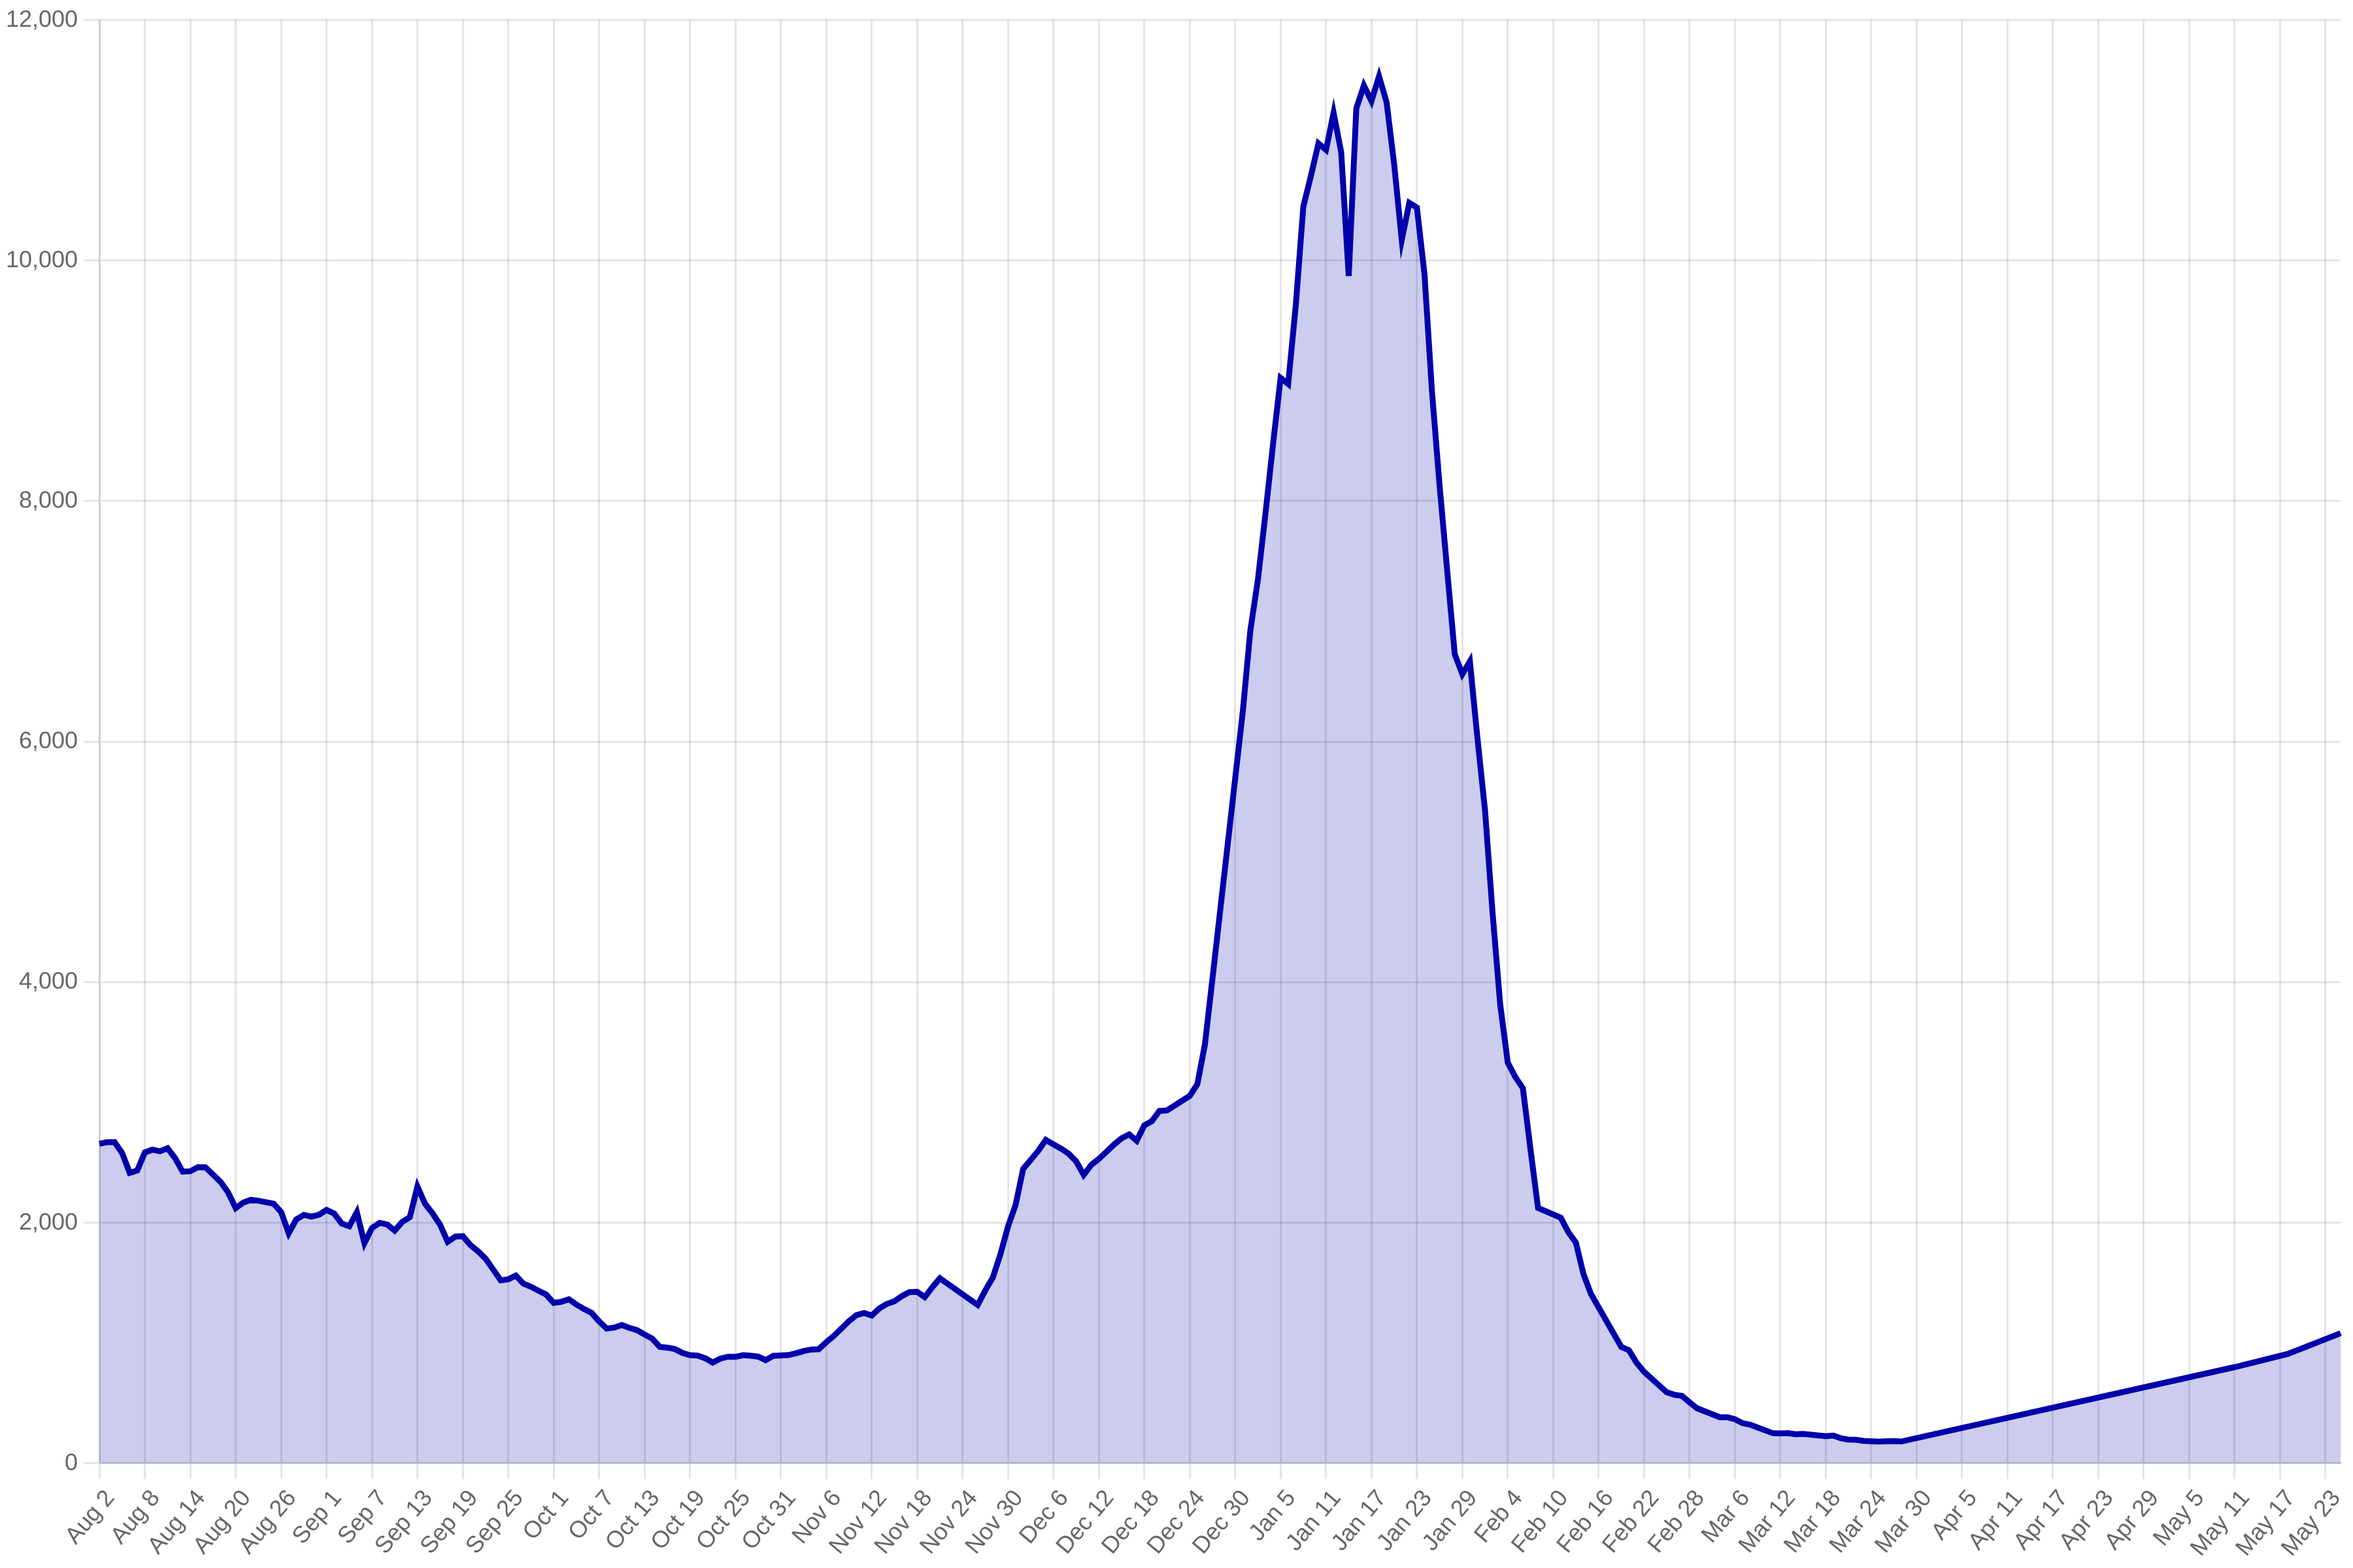
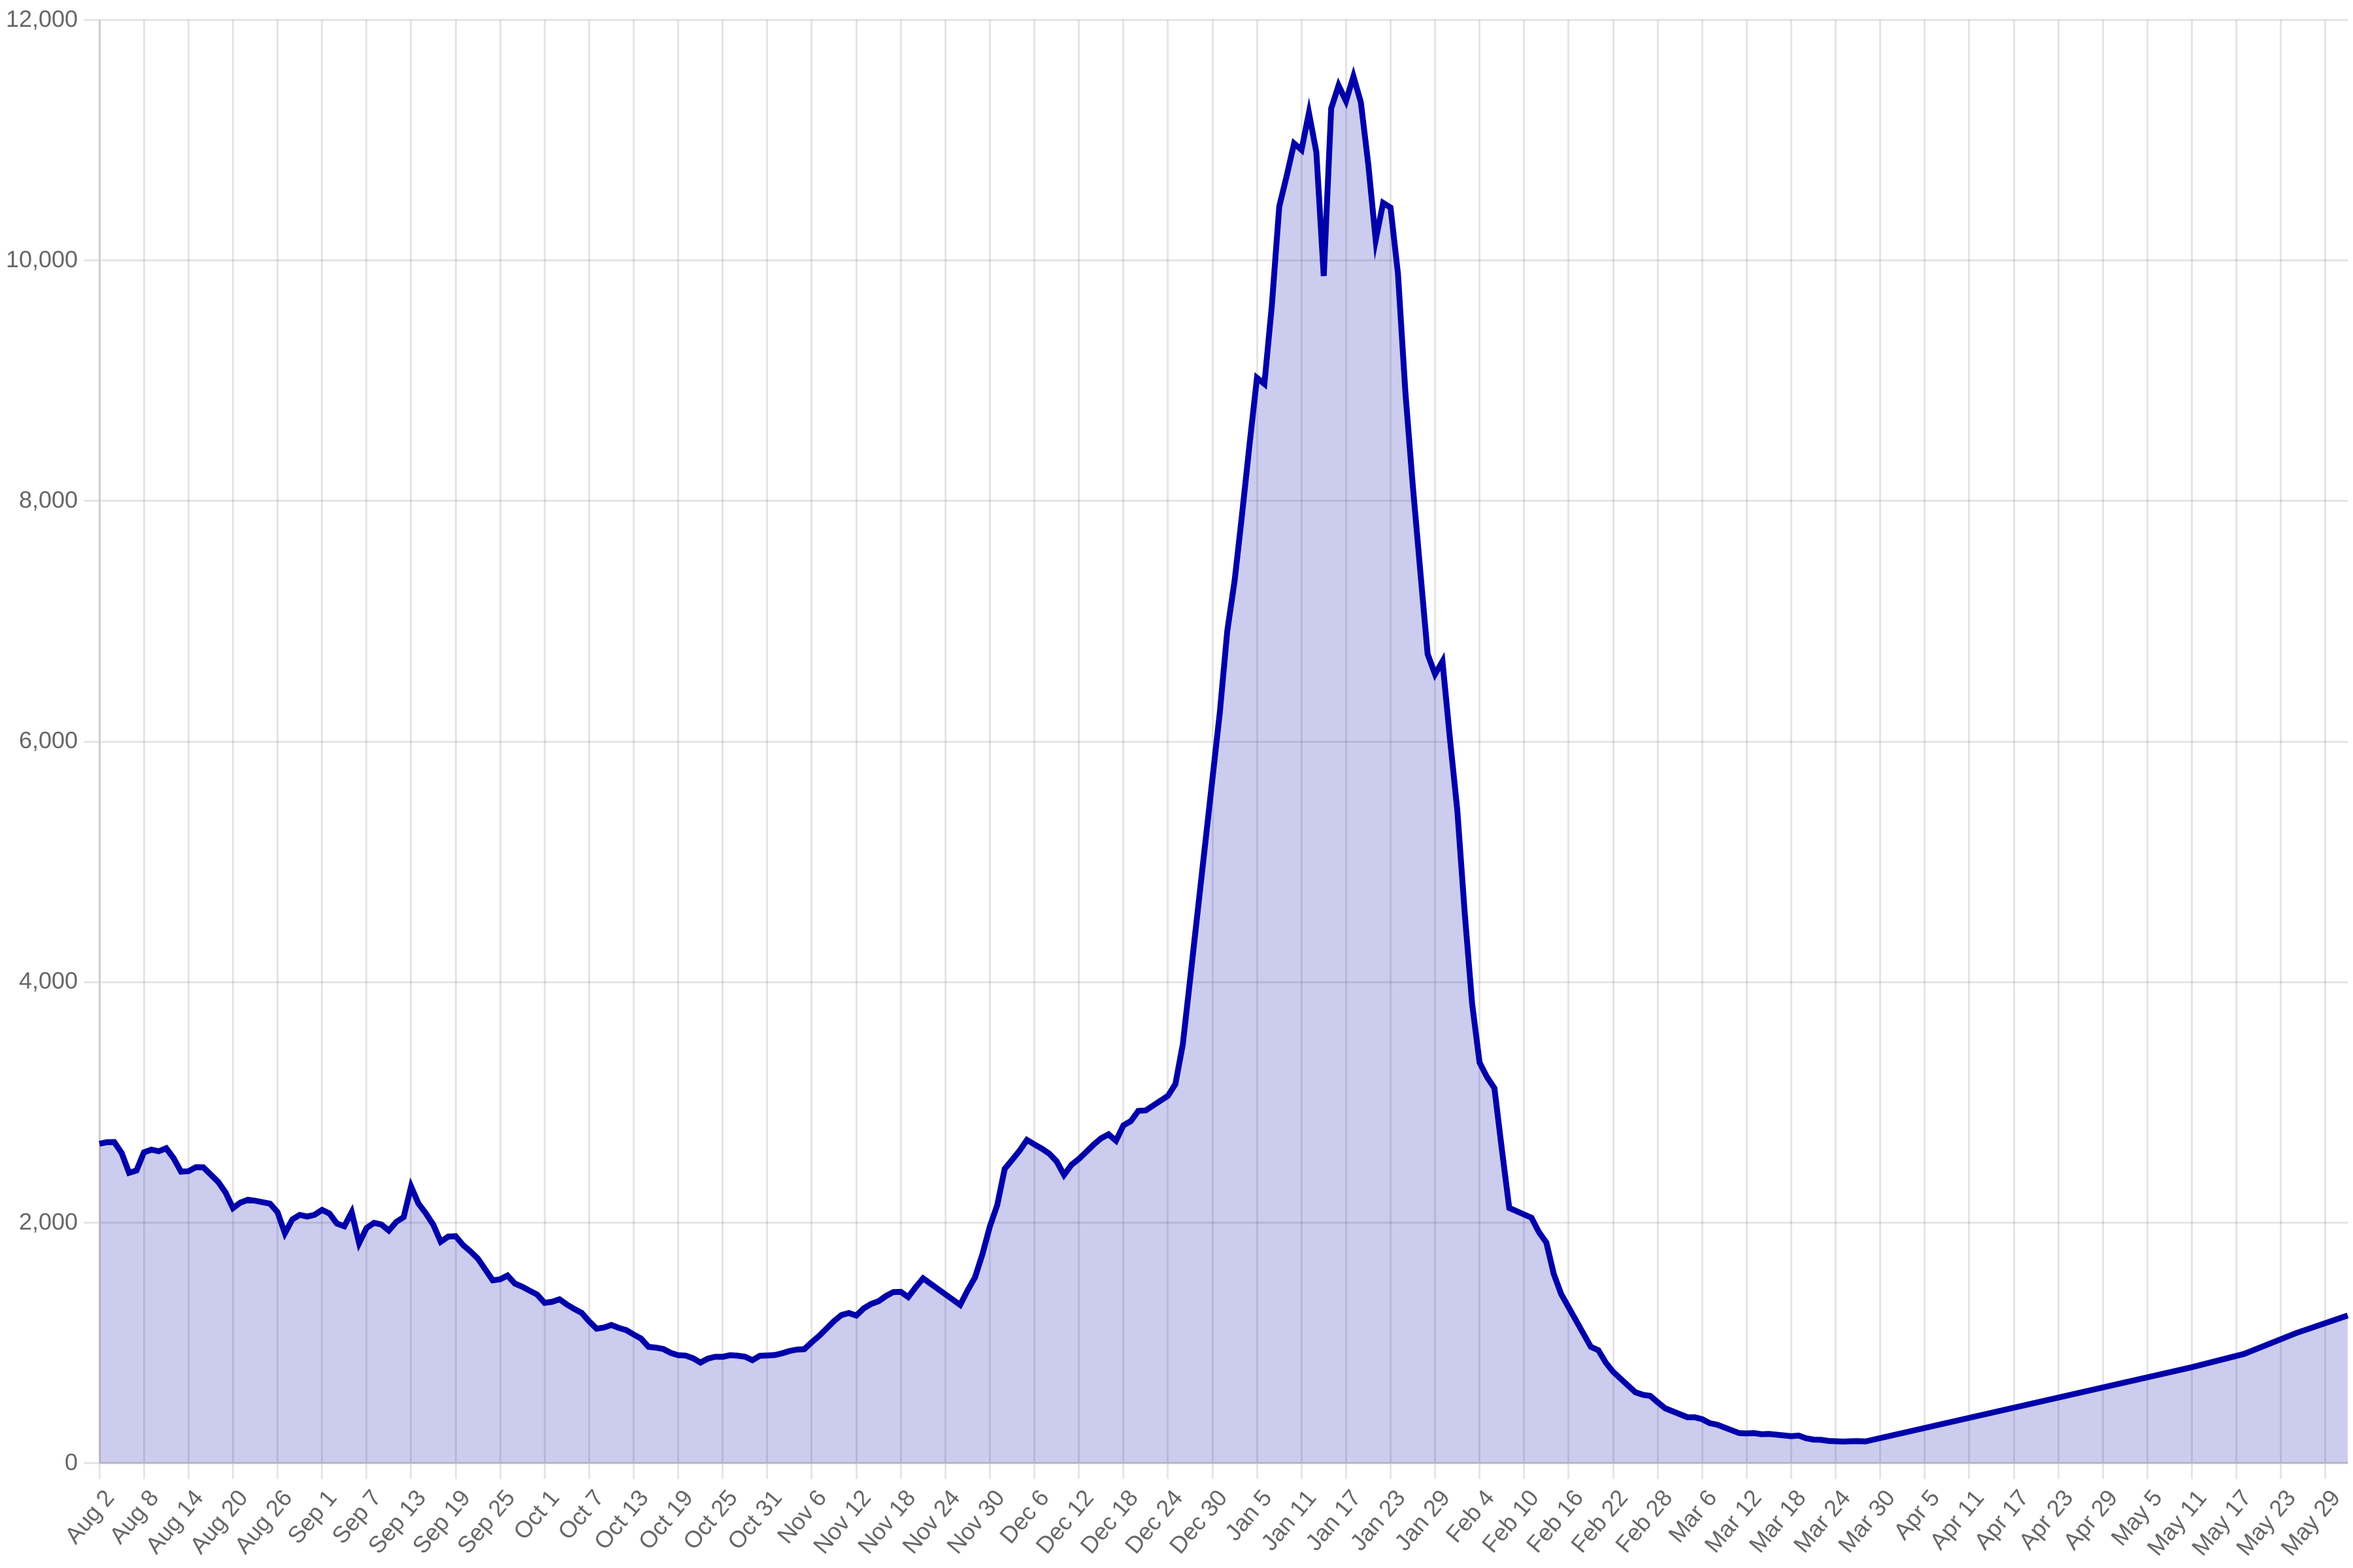
regular update

Changed region(s): [[0.0622, 0.0312, 1.0, 1.0], [0.0622, 0.0312, 0.2178, 0.8125]]

diff --git a/docs/index.html b/docs/index.html
@@ -43,10 +43,10 @@
     <main>
       <h1>Missouri COVID data</h1>
       <p>
-        The data on this page was updated <strong>Friday, May 27, 2022</strong>. For
+        The data on this page was updated <strong>Friday, June 3, 2022</strong>. For
         the values that are averages over 7 days, the start date is
-        <strong>Thursday, May 19, 2022</strong> and the end date is
-        <strong>Wednesday, May 25, 2022</strong>. The original data comes from the
+        <strong>Thursday, May 26, 2022</strong> and the end date is
+        <strong>Wednesday, June 1, 2022</strong>. The original data comes from the
         <a
           href="https://results.mo.gov/t/COVID19/views/WeeklyCOVIDMockup_16487370423730/WeeklyReport-Revised-v2?:embed=y&:showVizHome=no&:host_url=https%3A%2F%2Fresults.mo.gov%2F&:embed_code_version=3&:tabs=no&:toolbar=no&:showAppBanner=false&:display_spinner=no&:loadOrderID=0"
           >Missouri Department of Health and Senior Services</a
@@ -79,14 +79,14 @@
 
       <h2>New cases</h2>
       <p>
-        There have been <strong>7,572</strong> new cases in the
-        past 7 days, about <strong>1,082 per day</strong>.
+        There have been <strong>8,603</strong> new cases in the
+        past 7 days, about <strong>1,229 per day</strong>.
       </p>
       <img src="charts/totalPositive.png" />
 
       <h2>Outcomes</h2>
       <p>
-        There are currently 465 people hospitalized with
+        There are currently 574 people hospitalized with
         COVID-19.
       </p>
       <img src="charts/hospitalizations.png" />
